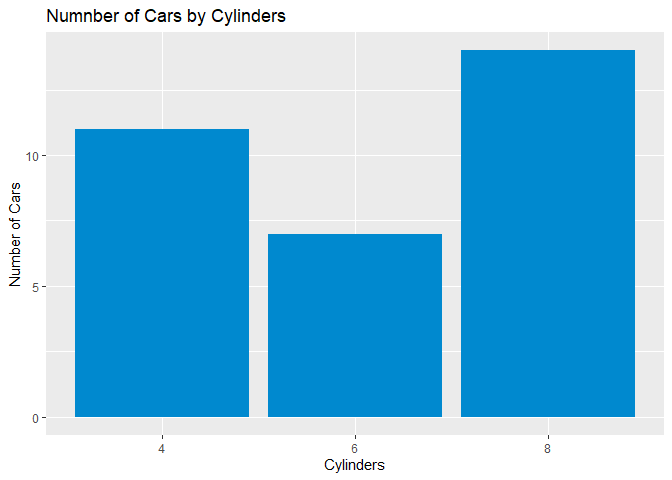
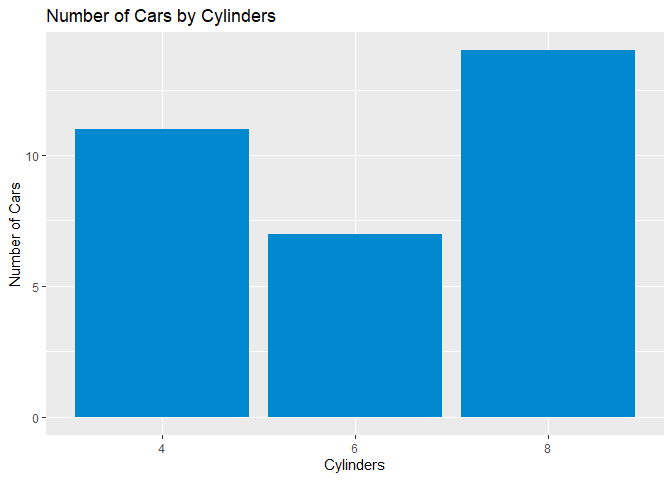
Fix typo V2.0

Changed region(s): [[0.125, 0.0, 0.4375, 0.0625]]

diff --git a/README.md b/README.md
@@ -65,7 +65,7 @@ plot_colored <- mtcars |>
   ggplot(ggplot2::aes (x = cyl, y = n)) +
   geom_col(fill = gedsb_colours("Blue")) + # Colour added here
   labs(
-    title = "Numnber of Cars by Cylinders",
+    title = "Number of Cars by Cylinders",
     x = "Cylinders",
     y = "Number of Cars"
   ) 
